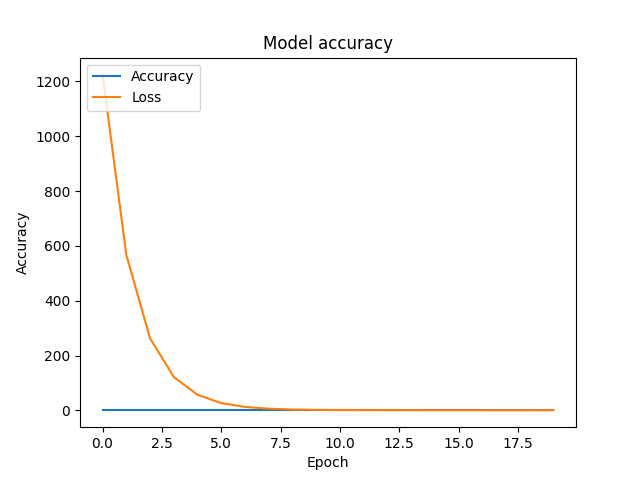
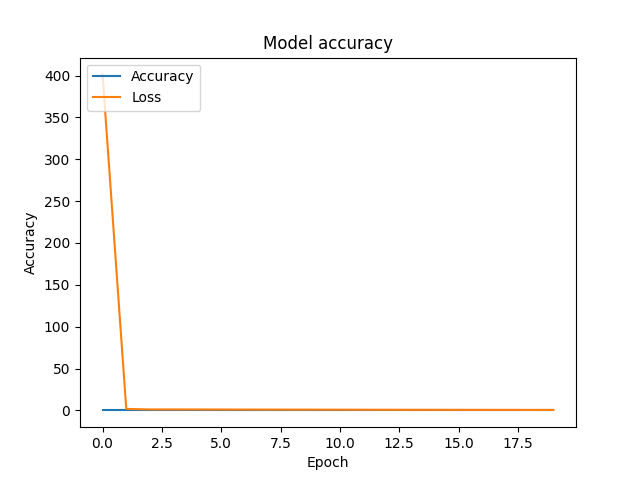
Add Visualization and Keras

diff --git a/keras/02_multi_variable_linear_regression.py b/keras/02_multi_variable_linear_regression.py
@@ -1,0 +1,53 @@
+#!/usr/bin/env python3
+# -*- coding:utf-8 -*-
+
+import numpy as np
+
+from tensorflow.keras.models import Sequential
+from tensorflow.keras.layers import Dense
+from tensorflow.keras import optimizers
+# from keras.models import Sequential
+# from keras.layers import Dense
+# from keras import optimizers
+
+import matplotlib.pyplot as plt
+
+# data set
+x_data = np.array([
+                    [73,80,75],
+                    [93,88,93],
+                    [89,91,90],
+                    [80,80,80],
+                    [96,98,100],
+                    [73,66,70],
+                  ])
+y_data = np.array([72,88,92,81,100,71])
+
+# model: linear regression input dense with dim =1
+model = Sequential()
+
+# 다중 회귀에서는 input dim 값과, output_dim 값을 변경해야 함.
+model.add(Dense(1, input_dim = 3, activation='linear'))
+
+# model compile:  SGD learning_rate of 0.01 
+sgd = optimizers.SGD(learning_rate = 0.00001)
+model.compile(loss='mse', optimizer=sgd, metrics=['mse'])
+
+# model fit
+history = model.fit(x_data, y_data, batch_size=1, epochs=100, shuffle=False, verbose=1)
+
+# prediction
+x_test = np.array([[90,88,93], [70,70,70]])
+print (model.predict(x_test))
+
+# print model summary
+model.summary()
+
+# 학습 정확성 값과 검증 정확성 값을 플롯팅 합니다. 
+# print(history.history)
+#plt.plot(history.history['accuracy'])
+plt.plot(history.history['loss'])
+plt.title('Train Loss')
+plt.ylabel('Loss')
+plt.savefig('tran_result.png')
+

diff --git a/visualization/test_matplotlib.py b/visualization/test_matplotlib.py
@@ -1,0 +1,29 @@
+#!/usr/bin/env python3
+# -*- coding:utf-8 -*-
+import matplotlib.pyplot as plt
+import numpy as np
+
+
+labels = ['G1', 'G2', 'G3', 'G4', 'G5']
+men_means = [20, 34, 30, 35, 27]
+women_means = [25, 32, 34, 20, 25]
+
+x = np.arange(len(labels))  # the label locations
+width = 0.35  # the width of the bars
+
+fig, ax = plt.subplots()
+rects1 = ax.bar(x - width/2, men_means, width, label='남성')
+rects2 = ax.bar(x + width/2, women_means, width, label='여성')
+
+# Add some text for labels, title and custom x-axis tick labels, etc.
+ax.set_ylabel('점수')
+ax.set_title('Scores by group and gender')
+ax.set_xticks(x)
+ax.set_xticklabels(labels)
+ax.legend()
+
+ax.bar_label(rects1, padding=3)
+ax.bar_label(rects2, padding=3)
+
+fig.tight_layout()
+plt.show()

diff --git a/keras/01_linear_regression.py b/keras/01_linear_regression.py
@@ -25,7 +25,11 @@ sgd = optimizers.SGD(learning_rate = 0.01)
 model.compile(loss='mse',optimizer=sgd, metrics=['accuracy'])
 
 # model fit
-history = model.fit(x_data, y_data, epochs=20, shuffle=False, verbose=1)
+history = model.fit(x_data, y_data, epochs=20, batch_size=1, shuffle=False, verbose=1)
+
+loss_and_metric = model.evaluate(x_data, y_data, batch_size=1)
+print ('evaluate:')
+print (loss_and_metric)
 
 # prediction
 print (model.predict([7]))
@@ -42,5 +46,5 @@ plt.ylabel('Accuracy')
 plt.xlabel('Epoch')
 plt.legend(['Accuracy', 'Loss'], loc='upper left')
 plt.savefig('tran_result.png')
-plt.show()
+#plt.show()
 

diff --git a/pandas_example/test_multiprocess.py b/pandas_example/test_multiprocess.py
@@ -49,10 +49,6 @@ def run_multicore(df):
     # df['outCol'] = df[['inCol1', 'inCol2', 'inCol3']].swifter.apply(my_func,positional_arg, keyword_arg=keyword_argval)
 
 if __name__ == '__main__':
-    # df = df_rand(100)
-    # print (df)
-    # exit(0)
-
     df = df_rand(10000000+1)
 
     print ('\nn=100')
